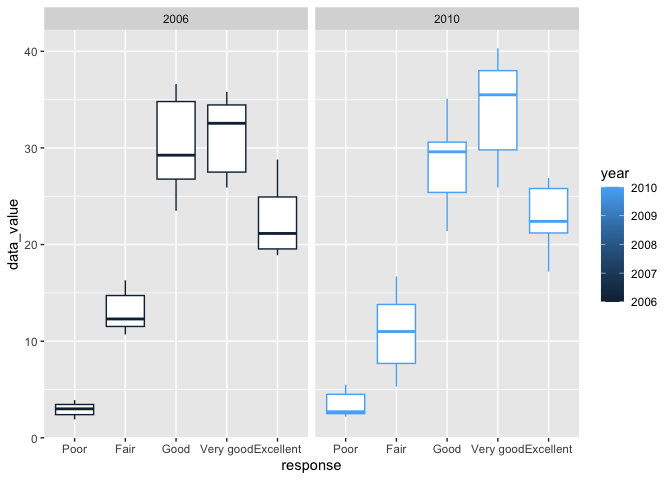
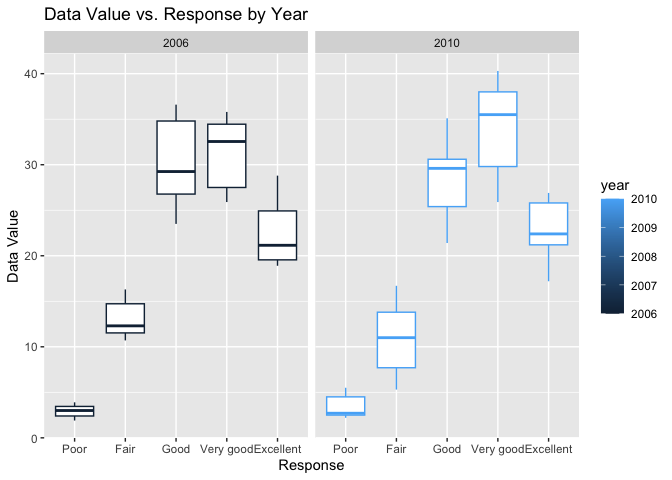
problem 2 plots comment

diff --git a/p8105_hw3_xt2288.md b/p8105_hw3_xt2288.md
@@ -214,6 +214,8 @@ brfss_clean |>
     ## Warning: Removed 3 rows containing missing values (`geom_line()`).
 
 ![](p8105_hw3_xt2288_files/figure-gfm/unnamed-chunk-10-1.png)<!-- -->
+There is no pattern in the plot. The plot shows the average data value
+change from 2002 to 2010 for every state.
 
 - Make a two-panel plot showing, for the years 2006, and 2010,
   distribution of data_value for responses (“Poor” to “Excellent”) among
@@ -224,10 +226,18 @@ brfss_clean |>
   filter(state == "NY" & (year == 2006 | year == 2010)) |>
   ggplot(aes(x = response, y = data_value, color = year)) + 
     geom_boxplot() +
-    facet_grid(. ~ year)
+    facet_grid(. ~ year) +
+  labs(
+    title = "Data Value vs. Response by Year",
+    x = "Response",
+    y = "Data Value"
+  )
 ```
 
 ![](p8105_hw3_xt2288_files/figure-gfm/unnamed-chunk-11-1.png)<!-- -->
+2006 and 2010 have about the same distribution, the rank of mean of data
+value is very good, good, excellent, fair, and poor. 2010 has a higher
+mean value in good, very good, and excellent.
 
 ## Problem 3
 
